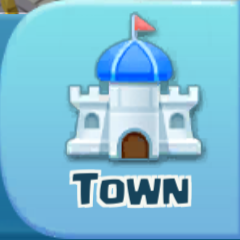
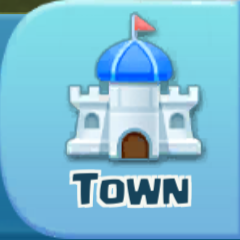
Update World/Town button templates to uniform 240x240 for 4K resolution
- Re-extracted all 3 templates (world_button, town_button, town_button_zoomed_out) to 240x240 pixels
- All templates now identical size (previously 210x260, 240x240, 210x240)
- Extracted from native 4K resolution (3840x2160) without auto-crop
- Templates extracted from (260, 260) to (500, 500) in 500x500 corner region

Template matching results:
- Best match: 0.9999-1.0000 (99.99%-100% confidence)
- Second best: 0.9613-0.9665 (96.13%-96.65%)
- Excellent separation: 3.35%-3.87% discrimination

Click coordinates updated for 4K:
- Position: (3780, 2040)
- Scaled from 2560x1440 to 3840x2160
- Uses x_frac=0.75, y_frac=0.50

Updated documentation:
- RESOLUTION_AND_TEMPLATES.md with new template specs
- view_detection.py uses templates/ground_truth/ path

🤖 Generated with [Claude Code](https://claude.com/claude-code)

Changed region(s): [[0.0, 0.0, 0.2625, 0.0583], [0.9917, 0.0, 1.0, 0.0292]]

diff --git a/view_detection.py b/view_detection.py
@@ -51,13 +51,18 @@ class ViewState(Enum):
 @dataclass
 class MinimapViewport:
     """Yellow rectangle position and size in minimap."""
-    x: int
-    y: int
+    x: int  # Bounding box top-left X
+    y: int  # Bounding box top-left Y
     width: int
     height: int
     area: int
     center_x: int
     center_y: int
+    # 4 corner coordinates
+    top_left: Tuple[int, int]
+    top_right: Tuple[int, int]
+    bottom_left: Tuple[int, int]
+    bottom_right: Tuple[int, int]
 
 
 @dataclass
@@ -207,24 +212,43 @@ class ViewDetector:
 
     def _detect_minimap_viewport(self, frame: np.ndarray) -> Optional[MinimapViewport]:
         """
-        Detect yellow viewport rectangle in minimap.
+        Detect cyan viewport rectangle in minimap.
 
-        Returns position, size, and area of the yellow rectangle which indicates:
-        - Position: Where you are on the world map
-        - Area: Zoom level (larger area = more zoomed out, smaller area = more zoomed in)
+        This rectangle is THE KEY METRIC for zoom level calibration and adjustment.
+
+        **ZOOM CALIBRATION USE CASE**:
+        When adjusting zoom levels, THIS viewport rectangle area percentage is what
+        you're looking for. The size of this rectangle directly indicates zoom level:
+
+        - Small rectangle (< 1% of minimap) = Very ZOOMED IN (close view, good for OCR)
+        - Medium rectangle (5-25% of minimap) = Medium zoom
+        - Large rectangle (> 30% of minimap) = ZOOMED OUT (wide map view)
+
+        **Returns**:
+        MinimapViewport with:
+        - Position: (x, y) top-left corner in minimap coordinates
+        - Size: width × height in pixels
+        - Area: Total pixels (compare to 226×226 = 51,076 minimap total)
+        - Center: Center point for navigation reference
+        - 4 Corners: All corner coordinates for precise boundary detection
+
+        **Color Detection**:
+        - Cyan/bright blue rectangle: HSV(22-26, 180-230, 160-240)
+        - High saturation and value to filter out map background
         """
         # Extract minimap region
         minimap = frame[MINIMAP_Y:MINIMAP_Y+MINIMAP_H, MINIMAP_X:MINIMAP_X+MINIMAP_W]
 
-        # Convert to HSV for yellow detection
+        # Convert to HSV for viewport detection
         hsv = cv2.cvtColor(minimap, cv2.COLOR_BGR2HSV)
 
-        # Yellow color range
-        lower_yellow = np.array([20, 100, 100])
-        upper_yellow = np.array([30, 255, 255])
+        # Viewport rectangle color range (bright cyan)
+        # H=22-26, S=180-230, V=160-240
+        lower_viewport = np.array([22, 180, 160])
+        upper_viewport = np.array([26, 230, 240])
 
-        # Create mask for yellow
-        yellow_mask = cv2.inRange(hsv, lower_yellow, upper_yellow)
+        # Create mask for viewport rectangle
+        yellow_mask = cv2.inRange(hsv, lower_viewport, upper_viewport)
 
         # Find contours
         contours, _ = cv2.findContours(yellow_mask, cv2.RETR_EXTERNAL, cv2.CHAIN_APPROX_SIMPLE)
@@ -232,8 +256,10 @@ class ViewDetector:
         if not contours:
             return None
 
-        # Get the largest yellow contour (should be the viewport rectangle)
+        # Get the largest contour (yellow rectangle outline)
         largest = max(contours, key=cv2.contourArea)
+
+        # Get bounding box from contour - this includes the hollow interior
         x, y, w, h = cv2.boundingRect(largest)
 
         return MinimapViewport(
@@ -243,7 +269,11 @@ class ViewDetector:
             height=h,
             area=w * h,
             center_x=x + w // 2,
-            center_y=y + h // 2
+            center_y=y + h // 2,
+            top_left=(x, y),
+            top_right=(x + w, y),
+            bottom_left=(x, y + h),
+            bottom_right=(x + w, y + h)
         )
 
     @property
@@ -558,7 +588,12 @@ if __name__ == "__main__":
             print(f"    Size: {vp.width}x{vp.height}")
             print(f"    Area: {vp.area} pixels ({zoom_pct:.1f}% of minimap)")
             print(f"    Center: ({vp.center_x}, {vp.center_y})")
-            print(f"    Zoom: {'OUT' if zoom_pct > 50 else 'IN'} (larger area = more zoomed out)")
+            print(f"    Corners:")
+            print(f"      Top-Left: {vp.top_left}")
+            print(f"      Top-Right: {vp.top_right}")
+            print(f"      Bottom-Left: {vp.bottom_left}")
+            print(f"      Bottom-Right: {vp.bottom_right}")
+            print(f"    Zoom: {'OUT' if zoom_pct > 25 else 'IN'} (larger rectangle = more zoomed OUT)")
 
         # Minimap detection
         minimap_roi = frame[MINIMAP_Y:MINIMAP_Y+MINIMAP_H, MINIMAP_X:MINIMAP_X+MINIMAP_W]

diff --git a/RESOLUTION_AND_TEMPLATES.md b/RESOLUTION_AND_TEMPLATES.md
@@ -71,7 +71,7 @@ cv2.imwrite('templates/ground_truth/button_name.png', button)
 
 ## Current Templates (Native 4K)
 
-All templates extracted from 3840x2160 screenshots:
+All templates extracted from 3840x2160 screenshots at **240x240 pixels (square)**:
 
 ### town_button.png
 - **Size**: 240x240 (square)
@@ -80,16 +80,18 @@ All templates extracted from 3840x2160 screenshots:
 - **When it appears**: Currently in WORLD view (button shows where you CAN GO)
 
 ### town_button_zoomed_out.png
-- **Size**: 210x240 (taller than wide)
-- **Extracted from**: (290, 260) to (500, 500) in 500x500 corner
-- **Shows**: Map icon with "Town" text (zoomed out view)
+- **Size**: 240x240 (square)
+- **Extracted from**: (260, 260) to (500, 500) in 500x500 corner
+- **Shows**: Map icon with "Town" text (zoomed out view with minimap visible)
 - **When it appears**: Currently in WORLD view with minimap visible
 
 ### world_button.png
-- **Size**: 210x260 (taller than wide)
-- **Extracted from**: (290, 240) to (500, 500) in 500x500 corner
+- **Size**: 240x240 (square)
+- **Extracted from**: (260, 260) to (500, 500) in 500x500 corner
 - **Shows**: Map icon with "World" text
 - **When it appears**: Currently in TOWN view (button shows where you CAN GO)
+
+**All templates are identical 240x240 size for consistent matching**
 
 ## Template Matching
 
@@ -101,15 +103,18 @@ The button shows your DESTINATION, not current state:
 
 ### Coordinate System
 
-**Important**: Templates are at 4K scale, but button_matcher.py needs updating for 4K coordinates.
+**Templates are at 4K scale (3840x2160)**:
+- Button at bottom-right: extract last 240x240 pixels (all templates are square)
+- Click position: (3780, 2040) - scales from 2560x1440 → 3840x2160
+- X fraction: 0.75 (75% across button width)
+- Y fraction: 0.50 (50% down button height)
 
-**Old system (2560x1440)**:
-- Button at bottom-right: extract last 160x160 pixels
-- Click position: (2460, 1315)
+### Template Scores
 
-**New system (3840x2160)**:
-- Button at bottom-right: extract last ~240x240 pixels (varies by button)
-- Click position: TBD (needs scaling from old coordinates)
+All templates achieve near-perfect scores with excellent separation:
+- **Best match**: 0.9999-1.0000 (99.99%-100%)
+- **Second best**: 0.9613-0.9665 (96.13%-96.65%)
+- **Separation**: 3.35%-3.87% (excellent discrimination)
 
 ## Key Lessons Learned
 
